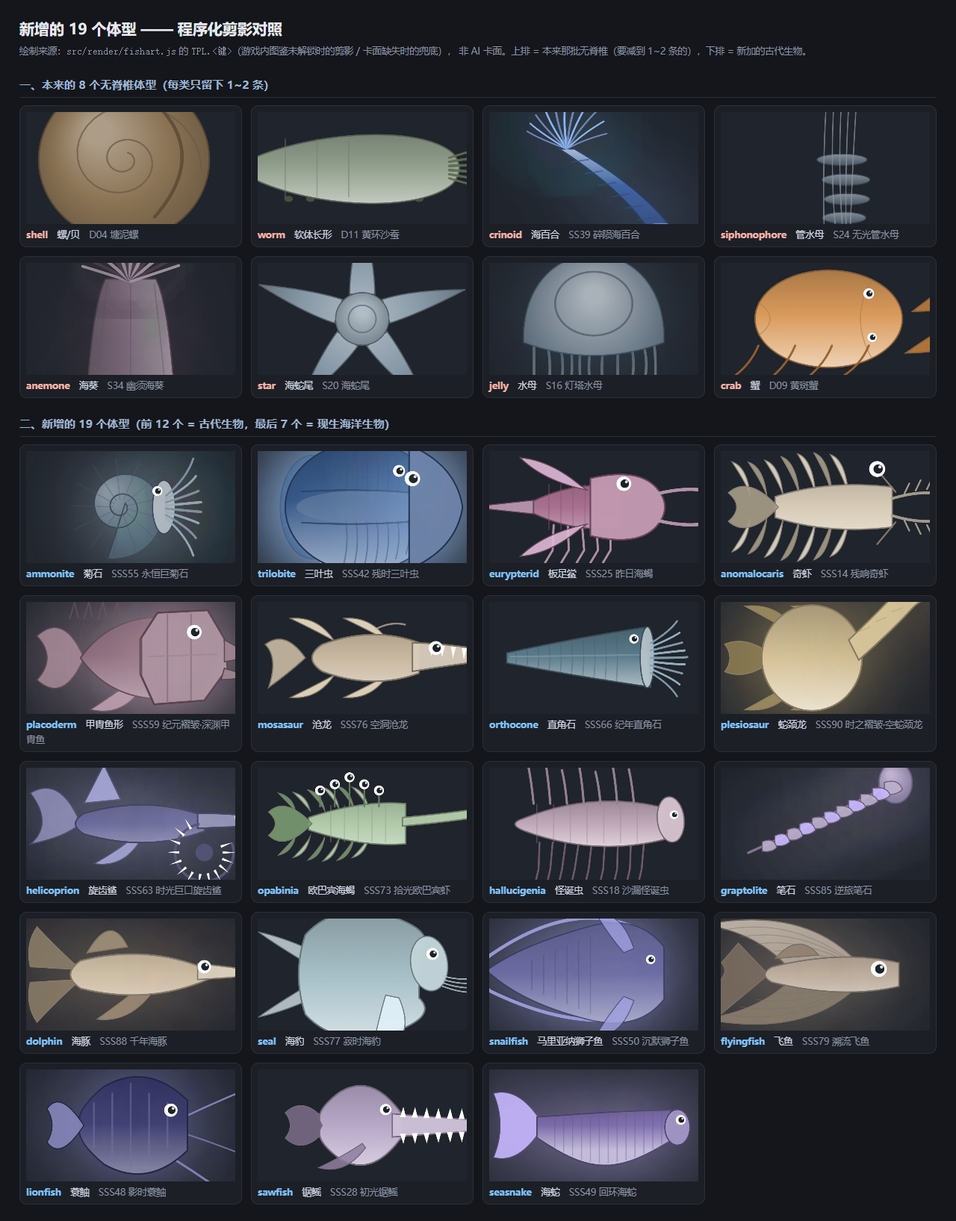
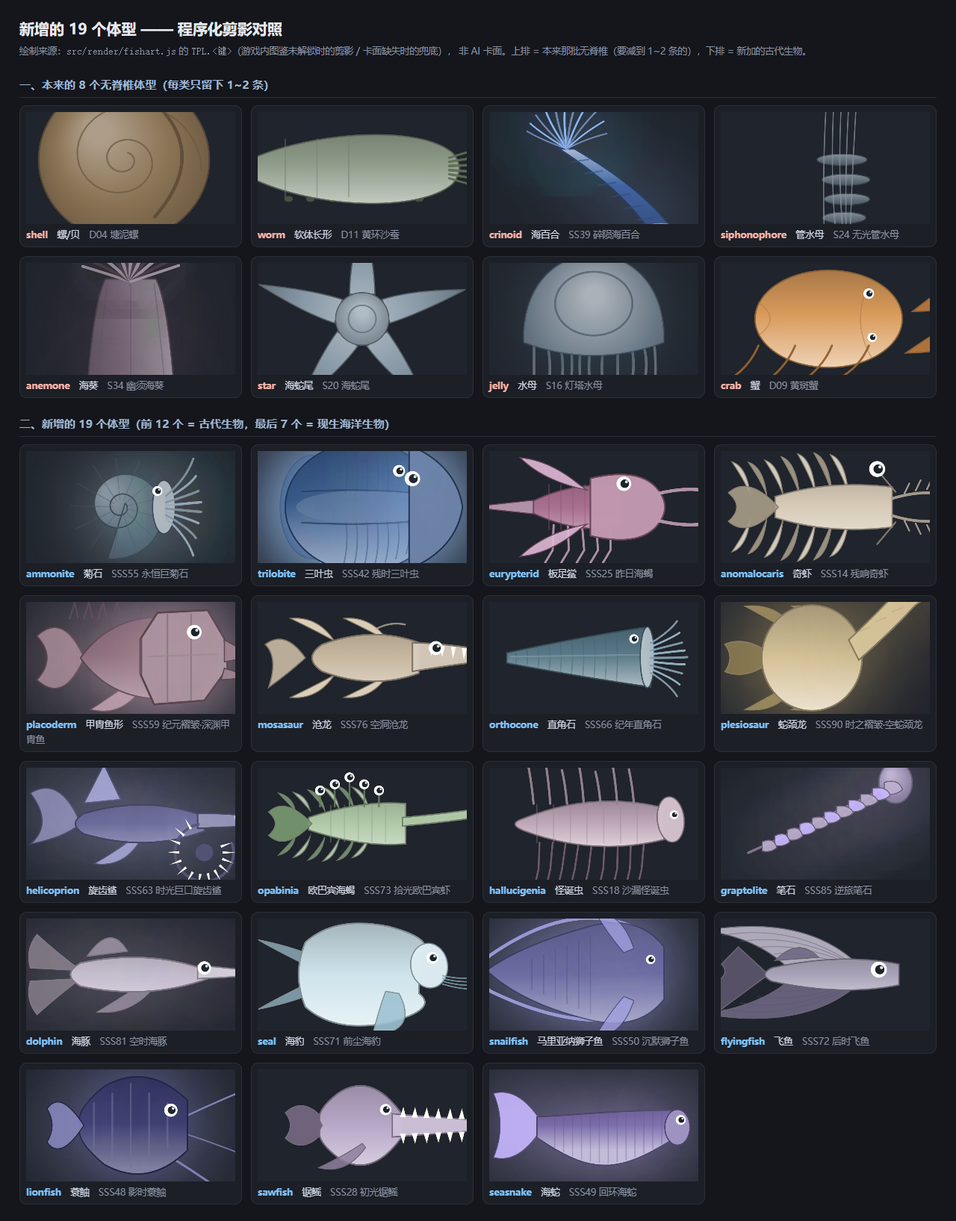
压条数（奇虾 / 甲胄鱼形 4→2）+ 4 个现生海兽体型各补 1 条
用户口径（承接上一条提交的追问）：「可以压」—— 同意把上一条里我点名询问、
没有擅自扩大解释的那两个体型也压到 2 条。

【压条数】
· anomalocaris 奇虾 4 → 2（保留 SSS14 残响奇虾 / SSS75 流年奇虾）
· placoderm 甲胄鱼形 4 → 2（保留 SSS59 纪元褶皱·深渊甲胄鱼 / SSS89 逆流甲胄鱼）
于是 12 个新增体型里现在有 5 个是「2 条」（菊石/三叶虫/板足鲎/奇虾/甲胄鱼形），
其余保持 1~2 条 —— 全表 56 种体型一个都不超 20 条。

【腾出的 4 条物种 → 用户点名的那 4 个新体型各补 1 条】
· SSS71 前尘奇虾 → 前尘海豹（seal）
· SSS72 后时奇虾 → 后时飞鱼（flyingfish）
· SSS69 空页甲胄鱼 → 空页狮子鱼（snailfish）
· SSS81 空时甲胄鱼 → 空时海豚（dolphin）
理由：这 4 个体型是用户上一轮亲自点名要的（海豚 / 海豹 / 马里亚纳狮子鱼 / 飞鱼），
先让它们从「单条」变成「2 条」；剩下的 7 个单条体型（旋齿鲨 / 欧巴宾海蝎 / 怪诞虫 /
笔石 / 蓑鲉 / 锯鳐 / 海蛇）名额不够，等下一次压条数或加物种时再补。

【连带改到】
· tools/gen-art.py 的 DEEP_LINES 这 4 条按新物种重写（海豹/飞鱼/深渊凝胶鱼/海豚各两句）；
· tools/style-preview.html 的 placoderm 代表鱼 SSS69 → SSS89 —— SSS69 这一轮变成了狮子鱼，
  菊石那一轮同款的坑：代表鱼被改走 ⇒ 该体型「全形态总览」当场漏一型（verify 报红）。
  上一条提交后我加了「体型指纹两两不同」的断言，但**代表鱼指向别处**这种失效它抓不到，
  仍然只有 verify §33② 能抓 —— 记在这里，别下次又忘。

【门禁（实跑）】node tools/test.js 1341 项全过 · node tools/verify.js 0 错 0 警 ·
node tools/build.js --check 通过 · 节奏表目标未动（balance.js 仍 828 小时）·
fix-rarity-price.js 复跑「0 条」· 真浏览器重截 docs/images/新增古代生物体型-剪影.png（27 个体型）。

⚠ 仍然**未提交** assets/cards/manifest.json（工作区里既有的在制品）。
⚠ 待重出 242 张（物种已换 239 / 无台账 3）；生图由用户自行执行。

Changed region(s): [[0.2812, 0.7486, 0.5, 0.8734], [0.75, 0.7486, 0.9375, 0.8422], [0.0312, 0.7486, 0.25, 0.8734]]

diff --git a/src/data/fish.js b/src/data/fish.js
@@ -374,10 +374,10 @@ window.G = window.G || {};
   F('SSS66', '纪年直角石', 0, 'orthocone', '#5a7a8a', '#98b8c8', 18000000.0, 110000000.0, 273, { w:72, body:0.32, tail:"fork" });
   F('SSS67', '溯时鲻', 0, 'reef', '#8a7a6a', '#c0b0a0', 40000000.0, 240000000.0, 276, { w:71, body:0.32 });
   F('SSS68', '残页鲷', 0, 'reef', '#6a8a8a', '#a8c8c8', 90000000.0, 520000000.0, 306, { w:70, body:0.46, spiny:true, stripes:true });
-  F('SSS69', '空页甲胄鱼', 0, 'placoderm', '#b8a882', '#e8dcb0', 130000000.0, 700000000.0, 311, { w:70, body:0.36, spiny:true });
+  F('SSS69', '空页狮子鱼', 0, 'snailfish', '#b8a882', '#e8dcb0', 130000000.0, 700000000.0, 311, { w:70, body:0.36, spiny:true });
   F('SSS70', '遗忘直角石', 0, 'orthocone', '#c98f8f', '#8f5555', 65000000.0, 380000000.0, 297, { w:69, body:0.60 });
-  F('SSS71', '前尘奇虾', 0, 'anomalocaris', '#cfe4ec', '#9dc2d2', 3000000.0, 17000000.0, 227, { w:68, body:0.26 });
-  F('SSS72', '后时奇虾', 0, 'anomalocaris', '#a8a2b8', '#6f6885', 9000000.0, 60000000.0, 259, { w:68, body:0.30, spots:true });
+  F('SSS71', '前尘海豹', 0, 'seal', '#cfe4ec', '#9dc2d2', 3000000.0, 17000000.0, 227, { w:68, body:0.26 });
+  F('SSS72', '后时飞鱼', 0, 'flyingfish', '#a8a2b8', '#6f6885', 9000000.0, 60000000.0, 259, { w:68, body:0.30, spots:true });
   F('SSS73', '拾光欧巴宾虾', 0, 'opabinia', '#b0c9a8', '#7a9a72', 28000000.0, 180000000.0, 281, { w:67, body:0.30 });
   F('SSS74', '逆旅鲽', 0, 'flatfish', '#cdc3d6', '#948aa8', 32000000.0, 210000000.0, 290, { w:66, body:0.56, spots:true });
   F('SSS75', '流年奇虾', 0, 'anomalocaris', '#d6cdb8', '#f5eeda', 38000000.0, 230000000.0, 278, { w:66, body:0.32 });
@@ -386,7 +386,7 @@ window.G = window.G || {};
   F('SSS78', '时间鲟', 1, 'sturgeon', '#d0c8b0', '#a89f80', 280000000000.0, 1500000000000.0, 1526, { w:58, body:0.38, spiny:true, glow:true });
   F('SSS79', '溯流飞鱼', 1, 'flyingfish', '#c0b0a0', '#908070', 300000000000.0, 1500000000000.0, 1574, { w:56, glow:true });
   F('SSS80', '逆熵鳐', 1, 'ray', '#b8c0a8', '#8f9880', 180000000000.0, 950000000000.0, 1616, { w:55, glow:true });
-  F('SSS81', '空时甲胄鱼', 1, 'placoderm', '#c8c0d0', '#98909f', 450000000000.0, 2400000000000.0, 1688, { w:53, body:0.28, glow:true, wx:'rain' });
+  F('SSS81', '空时海豚', 1, 'dolphin', '#c8c0d0', '#98909f', 450000000000.0, 2400000000000.0, 1688, { w:53, body:0.28, glow:true, wx:'rain' });
   F('SSS82', '千年魟', 1, 'ray', '#d8ccb8', '#a89c88', 250000000000.0, 1300000000000.0, 1588, { w:52, glow:true });
   F('SSS83', '时纱水母', 1, 'jelly', '#b0b8c0', '#808890', 60000000000.0, 340000000000.0, 1556, { w:50, glow:true });
   F('SSS84', '虚年章鱼', 1, 'squid', '#c4c0b0', '#94907f', 120000000000.0, 640000000000.0, 1639, { w:49, glow:true });

diff --git a/docs/收集耗时表.html b/docs/收集耗时表.html
@@ -3694,9 +3694,9 @@
           <td class="num">3.4 天</td>
         </tr><tr>
           <td class="num" style="color:var(--ink3)">69</td>
-          <td><b>空页甲胄鱼</b></td>
+          <td><b>空页狮子鱼</b></td>
           <td><span class="tag" style="background:#8b98a5">普通</span></td>
-          <td style="color:var(--ink3)">placoderm</td>
+          <td style="color:var(--ink3)">snailfish</td>
           <td class="num">1.353%</td>
           <td class="num">73.9</td>
           <td class="num"><b>2.4 小时</b></td>
@@ -3714,9 +3714,9 @@
           <td class="num">3.4 天</td>
         </tr><tr>
           <td class="num" style="color:var(--ink3)">71</td>
-          <td><b>前尘奇虾</b></td>
+          <td><b>前尘海豹</b></td>
           <td><span class="tag" style="background:#8b98a5">普通</span></td>
-          <td style="color:var(--ink3)">anomalocaris</td>
+          <td style="color:var(--ink3)">seal</td>
           <td class="num">1.314%</td>
           <td class="num">76.1</td>
           <td class="num"><b>2.5 小时</b></td>
@@ -3724,9 +3724,9 @@
           <td class="num">3.5 天</td>
         </tr><tr>
           <td class="num" style="color:var(--ink3)">72</td>
-          <td><b>后时奇虾</b></td>
+          <td><b>后时飞鱼</b></td>
           <td><span class="tag" style="background:#8b98a5">普通</span></td>
-          <td style="color:var(--ink3)">anomalocaris</td>
+          <td style="color:var(--ink3)">flyingfish</td>
           <td class="num">1.314%</td>
           <td class="num">76.1</td>
           <td class="num"><b>2.5 小时</b></td>
@@ -3814,9 +3814,9 @@
           <td class="num">3.1 天</td>
         </tr><tr>
           <td class="num" style="color:var(--ink3)">81</td>
-          <td><b>空时甲胄鱼</b></td>
+          <td><b>空时海豚</b></td>
           <td><span class="tag" style="background:#2b8fe0">稀有</span></td>
-          <td style="color:var(--ink3)">placoderm</td>
+          <td style="color:var(--ink3)">dolphin</td>
           <td class="num">0.713%</td>
           <td class="num">140</td>
           <td class="num"><b>4.6 小时</b></td>

diff --git a/tools/style-preview.html b/tools/style-preview.html
@@ -109,7 +109,7 @@
                 /* ── 2026-10-13 新增的 6 个「古代生物」体型 ── */
                 'SSS55', /* ammonite     永恒巨菊石 */ 'SSS42', /* trilobite    残时三叶虫 */
                 'SSS25', /* eurypterid   昨日海蝎 */   'SSS14', /* anomalocaris 残响奇虾 */
-                'SSS69', /* placoderm    空页甲胄鱼 */ 'SSS76', /* mosasaur     空洞沧龙 */
+                'SSS89', /* placoderm    逆流甲胄鱼 */ 'SSS76', /* mosasaur     空洞沧龙 */
                 /* ── 2026-10-13 第二批 6 个「古代生物」体型 ── */
                 'SSS66', /* orthocone    纪年直角石 */  'SSS94', /* plesiosaur   终焉纪元·忘川蛇颈龙 */
                 'SSS63', /* helicoprion  时光巨口旋齿鲨 */ 'SSS73', /* opabinia    拾光欧巴宾虾 */

diff --git a/tools/gen-art.py b/tools/gen-art.py
@@ -1396,10 +1396,10 @@ DEEP_LINES = {
     'SSS66': 'A year-reckoning straight-shell, one long unbroken cone. Even bands are cut across it chamber by chamber, from the open end back to the tip.',
     'SSS67': 'A time-tracing mullet following the years upstream. Pale back-running lines are cut into its sides.',
     'SSS68': 'A torn-page bream with its history half rubbed away. Its flat flanks are worn smooth in large pale patches.',
-    'SSS69': 'A blank-page armoured beast with everything erased from it. Its whole head-shield is rubbed down to bare pale stone, every seam worn level.',
+    'SSS69': 'A blank-page deep-gel fish with everything erased from it. Its broad head is rubbed down to bare pale stone and the body tapers away into a thin ribbon.',
     'SSS70': 'A forgotten straight-shell, worn where nobody has looked at it. Patches of pale worn stone lie along its long cone in uneven shapes.',
-    'SSS71': 'A dust-of-the-past hunter. Fine pale grit lies over its flank flaps in long drifts, thickest along the upper edge of each flap.',
-    'SSS72': 'A late-hour hunter. Its head is worn pale at the front and darkens steadily toward the far end of its body.',
+    'SSS71': 'A dust-of-the-past seal. Fine pale grit lies over its hide in long drifts, thickest along the ridge of its back.',
+    'SSS72': 'A late-hour flying-fish. Its head is worn pale at the front, and its two great side fins darken steadily toward their tips.',
     'SSS73': 'A light-gathering five-eyed creature hoarding what others left behind. Five short stalks stand in a row on its head, each tipped with a pale eye.',
     'SSS74': 'A reverse-journey flounder travelling back the way it came. Pale lines run backwards across its flat body in even rows.',
     'SSS75': 'A flowing-year hunter. Pale bands flow along its long flank flaps one after another, from the head back to the tail fan.',
@@ -1408,7 +1408,7 @@ DEEP_LINES = {
     'SSS78': 'A time-sturgeon. Long deep bands run the length of its plated body.',
     'SSS79': 'A back-current flying-fish, the oldest racer of returning water. Two enormous wing-like fins spread from its shoulders and its tail carries one long lower blade.',
     'SSS80': 'A reverse-entropy ray whose own order is running down. Pale lines reverse outward across its wings and fade at the tips.',
-    'SSS81': 'A hollow-hour armoured beast. Its shield is colourless grey, the plates worn down to soft bevels along every edge.',
+    'SSS81': 'A hollow-hour dolphin. Its whole body is colourless grey, the beak and the flukes worn down to soft pale edges.',
     'SSS82': 'A thousand-year ray whose disk is a record of ages. Deep age-bands are cut across the whole disk, one inside the next.',
     'SSS83': 'A time-gauze jelly, a thin drifting veil. Fine pale grain is suspended in its dome like cloth.',
     'SSS84': 'An empty-year octopus. Its mantle fades at the edges and its arms thin away into grey.',

diff --git a/tools/gen-fish.py b/tools/gen-fish.py
@@ -550,10 +550,10 @@ FIELD_FISH['SSS'] = [
  ('纪年直角石',0,'orthocone',1.8e+07,1.1e+08,307,'body:0.32, tail:"fork"'),
  ('溯时鲻',0,'reef',4e+07,2.4e+08,309,'body:0.32'),
  ('残页鲷',0,'reef',9e+07,5.2e+08,343,'body:0.46, spiny:true, stripes:true'),
- ('空页甲胄鱼',0,'placoderm',1.3e+08,7e+08,348,'body:0.36, spiny:true'),
+ ('空页狮子鱼',0,'snailfish',1.3e+08,7e+08,348,'body:0.36, spiny:true'),
  ('遗忘直角石',0,'orthocone',6.5e+07,3.8e+08,333,'body:0.60'),
- ('前尘奇虾',0,'anomalocaris',3e+06,1.7e+07,255,'body:0.26'),
- ('后时奇虾',0,'anomalocaris',9e+06,6e+07,291,'body:0.30, spots:true'),
+ ('前尘海豹',0,'seal',3e+06,1.7e+07,255,'body:0.26'),
+ ('后时飞鱼',0,'flyingfish',9e+06,6e+07,291,'body:0.30, spots:true'),
  ('拾光欧巴宾虾',0,'opabinia',2.8e+07,1.8e+08,315,'body:0.30'),
  ('逆旅鲽',0,'flatfish',3.2e+07,2.1e+08,325,'body:0.56, spots:true'),
  ('流年奇虾',0,'anomalocaris',3.8e+07,2.3e+08,312,'body:0.32'),
@@ -562,7 +562,7 @@ FIELD_FISH['SSS'] = [
  ('时间鲟',1,'sturgeon',2.8e+11,1.5e+12,722,'body:0.38, spiny:true, glow:true'),
  ('溯流飞鱼',1,'flyingfish',3e+11,1.5e+12,744,'glow:true'),
  ('逆熵鳐',1,'ray',1.8e+11,9.5e+11,764,'glow:true'),
- ('空时甲胄鱼',1,'placoderm',4.5e+11,2.4e+12,798,'body:0.28, glow:true'),
+ ('空时海豚',1,'dolphin',4.5e+11,2.4e+12,798,'body:0.28, glow:true'),
  ('千年魟',1,'ray',2.5e+11,1.3e+12,751,'glow:true'),
  ('时纱水母',1,'jelly',6e+10,3.4e+11,736,'glow:true'),
  ('虚年章鱼',1,'squid',1.2e+11,6.4e+11,775,'glow:true'),

diff --git a/docs/鱼提示词表.md b/docs/鱼提示词表.md
@@ -389,10 +389,10 @@ BG    = Plain dark neutral grey background, completely empty, no scenery, no tex
 | SSS66 | 纪年直角石 | 普通 | orthocone | low poly 3D fantasy creature named 纪年直角石, an elder being from a forgotten age, unmistakably not an ordinary fish, an ancient straight-shelled creature of the first seas. A year-reckoning straight-shell, one long unbroken cone. Even bands are cut across it chamber by chamber, from the open end back to the tip. Faceted low-poly stylisation, simple unadorned form, flat shading, full side view, whole body visible, facing left, centered with generous margin, empty dark background. primeval colouring, muted sky blue body with lighter fins, a clearly lighter belly and a darker back. |
 | SSS67 | 溯时鲻 | 普通 | reef | low poly 3D fantasy creature named 溯时鲻, an elder being from a forgotten age, unmistakably not an ordinary fish, a stout big-headed dweller of the rocks. A time-tracing mullet following the years upstream. Pale back-running lines are cut into its sides. Faceted low-poly stylisation, simple unadorned form, flat shading, full side view, whole body visible, facing left, centered with generous margin, empty dark background. primeval colouring, muted orange body with lighter fins, a clearly lighter belly and a darker back. |
 | SSS68 | 残页鲷 | 普通 | reef | low poly 3D fantasy creature named 残页鲷, an elder being from a forgotten age, unmistakably not an ordinary fish, a stout big-headed dweller of the rocks. A torn-page bream with its history half rubbed away. Its flat flanks are worn smooth in large pale patches. Faceted low-poly stylisation, simple unadorned form, flat shading, full side view, whole body visible, facing left, centered with generous margin, empty dark background. primeval colouring, muted teal body with lighter fins, a clearly lighter belly and a darker back. |
-| SSS69 | 空页甲胄鱼 | 普通 | placoderm | low poly 3D fantasy creature named 空页甲胄鱼, an elder being from a forgotten age, unmistakably not an ordinary fish, an ancient plate-armoured jawed beast of the first seas. A blank-page armoured beast with everything erased from it. Its whole head-shield is rubbed down to bare pale stone, every seam worn level. Faceted low-poly stylisation, simple unadorned form, flat shading, full side view, whole body visible, facing left, centered with generous margin, empty dark background. primeval colouring, muted golden yellow body with lighter fins, a clearly lighter belly and a darker back. |
+| SSS69 | 空页狮子鱼 | 普通 | snailfish | low poly 3D fantasy creature named 空页狮子鱼, an elder being from a forgotten age, unmistakably not an ordinary fish, a gel-bodied deep creature tapering into a ribbon. A blank-page deep-gel fish with everything erased from it. Its broad head is rubbed down to bare pale stone and the body tapers away into a thin ribbon. Faceted low-poly stylisation, simple unadorned form, flat shading, full side view, whole body visible, facing left, centered with generous margin, empty dark background. primeval colouring, muted golden yellow body with lighter fins, a clearly lighter belly and a darker back. |
 | SSS70 | 遗忘直角石 | 普通 | orthocone | low poly 3D fantasy creature named 遗忘直角石, an elder being from a forgotten age, unmistakably not an ordinary fish, an ancient straight-shelled creature of the first seas. A forgotten straight-shell, worn where nobody has looked at it. Patches of pale worn stone lie along its long cone in uneven shapes. Faceted low-poly stylisation, simple unadorned form, flat shading, full side view, whole body visible, facing left, centered with generous margin, empty dark background. primeval colouring, red body with darker fins, a clearly lighter belly and a darker back. |
-| SSS71 | 前尘奇虾 | 普通 | anomalocaris | low poly 3D fantasy creature named 前尘奇虾, an elder being from a forgotten age, unmistakably not an ordinary fish, an ancient flippered hunter of the first seas. A dust-of-the-past hunter. Fine pale grit lies over its flank flaps in long drifts, thickest along the upper edge of each flap. Faceted low-poly stylisation, simple unadorned form, flat shading, full side view, whole body visible, facing left, centered with generous margin, empty dark background. primeval colouring, pale sky blue body with darker fins, a clearly lighter belly and a darker back. |
-| SSS72 | 后时奇虾 | 普通 | anomalocaris | low poly 3D fantasy creature named 后时奇虾, an elder being from a forgotten age, unmistakably not an ordinary fish, an ancient flippered hunter of the first seas. A late-hour hunter. Its head is worn pale at the front and darkens steadily toward the far end of its body. Faceted low-poly stylisation, simple unadorned form, flat shading, full side view, whole body visible, facing left, centered with generous margin, empty dark background. primeval colouring, muted violet body with darker fins, a clearly lighter belly and a darker back. |
+| SSS71 | 前尘海豹 | 普通 | seal | low poly 3D fantasy creature named 前尘海豹, an elder being from a forgotten age, unmistakably not an ordinary fish, a heavy flippered beast with its hind limbs trailing behind. A dust-of-the-past seal. Fine pale grit lies over its hide in long drifts, thickest along the ridge of its back. Faceted low-poly stylisation, simple unadorned form, flat shading, full side view, whole body visible, facing left, centered with generous margin, empty dark background. primeval colouring, pale sky blue body with darker fins, a clearly lighter belly and a darker back. |
+| SSS72 | 后时飞鱼 | 普通 | flyingfish | low poly 3D fantasy creature named 后时飞鱼, an elder being from a forgotten age, unmistakably not an ordinary fish, a winged leaper with immense side fins. A late-hour flying-fish. Its head is worn pale at the front, and its two great side fins darken steadily toward their tips. Faceted low-poly stylisation, simple unadorned form, flat shading, full side view, whole body visible, facing left, centered with generous margin, empty dark background. primeval colouring, muted violet body with darker fins, a clearly lighter belly and a darker back. |
 | SSS73 | 拾光欧巴宾虾 | 普通 | opabinia | low poly 3D fantasy creature named 拾光欧巴宾虾, an elder being from a forgotten age, unmistakably not an ordinary fish, an ancient five-eyed creature of the first seas. A light-gathering five-eyed creature hoarding what others left behind. Five short stalks stand in a row on its head, each tipped with a pale eye. Faceted low-poly stylisation, simple unadorned form, flat shading, full side view, whole body visible, facing left, centered with generous margin, empty dark background. primeval colouring, muted pale green body with darker fins, a clearly lighter belly and a darker back. |
 | SSS74 | 逆旅鲽 | 普通 | flatfish | low poly 3D fantasy creature named 逆旅鲽, an elder being from a forgotten age, unmistakably not an ordinary fish, a flat one-sided creature that lies on the seabed. A reverse-journey flounder travelling back the way it came. Pale lines run backwards across its flat body in even rows. Faceted low-poly stylisation, simple unadorned form, flat shading, full side view, whole body visible, facing left, centered with generous margin, empty dark background. primeval colouring, muted pale violet body with darker fin fringe, a clearly lighter lower side and a darker upper side. |
 | SSS75 | 流年奇虾 | 普通 | anomalocaris | low poly 3D fantasy creature named 流年奇虾, an elder being from a forgotten age, unmistakably not an ordinary fish, an ancient flippered hunter of the first seas. A flowing-year hunter. Pale bands flow along its long flank flaps one after another, from the head back to the tail fan. Faceted low-poly stylisation, simple unadorned form, flat shading, full side view, whole body visible, facing left, centered with generous margin, empty dark background. primeval colouring, muted pale golden yellow body with lighter fins, a clearly lighter belly and a darker back. |
@@ -401,7 +401,7 @@ BG    = Plain dark neutral grey background, completely empty, no scenery, no tex
 | SSS78 | 时间鲟 | 稀有 | sturgeon | low poly 3D fantasy creature named 时间鲟, an elder being from a forgotten age, unmistakably not an ordinary fish, an armoured plated creature with a long snout and barbels. A time-sturgeon. Long deep bands run the length of its plated body. Faceted low-poly stylisation, slightly longer fins, flat shading, full side view, whole body visible, facing left, centered with generous margin, empty dark background. primeval colouring, muted pale golden yellow body with darker fins, a clearly lighter belly and a darker back. |
 | SSS79 | 溯流飞鱼 | 稀有 | flyingfish | low poly 3D fantasy creature named 溯流飞鱼, an elder being from a forgotten age, unmistakably not an ordinary fish, a winged leaper with immense side fins. A back-current flying-fish, the oldest racer of returning water. Two enormous wing-like fins spread from its shoulders and its tail carries one long lower blade. Faceted low-poly stylisation, slightly longer fins, flat shading, full side view, whole body visible, facing left, centered with generous margin, empty dark background. primeval colouring, muted orange body with darker fins, a clearly lighter belly and a darker back. |
 | SSS80 | 逆熵鳐 | 稀有 | ray | low poly 3D fantasy creature named 逆熵鳐, an elder being from a forgotten age, unmistakably not an ordinary fish, a broad winged ray-like being. A reverse-entropy ray whose own order is running down. Pale lines reverse outward across its wings and fade at the tips. Faceted low-poly stylisation, slightly longer wings, flat shading, full side view, whole body visible, facing left, centered with generous margin, empty dark background. primeval colouring, muted yellow green body with light grey wings, a clearly lighter belly and a darker back. |
-| SSS81 | 空时甲胄鱼 | 稀有 | placoderm | low poly 3D fantasy creature named 空时甲胄鱼, an elder being from a forgotten age, unmistakably not an ordinary fish, an ancient plate-armoured jawed beast of the first seas. A hollow-hour armoured beast. Its shield is colourless grey, the plates worn down to soft bevels along every edge. Faceted low-poly stylisation, slightly longer fins, flat shading, full side view, whole body visible, facing left, centered with generous margin, empty dark background. primeval colouring, muted pale violet body with light grey fins, a clearly lighter belly and a darker back. |
+| SSS81 | 空时海豚 | 稀有 | dolphin | low poly 3D fantasy creature named 空时海豚, an elder being from a forgotten age, unmistakably not an ordinary fish, a sleek beaked swimmer with a horizontal tail fluke. A hollow-hour dolphin. Its whole body is colourless grey, the beak and the flukes worn down to soft pale edges. Faceted low-poly stylisation, slightly longer flippers, flat shading, full side view, whole body visible, facing left, centered with generous margin, empty dark background. primeval colouring, muted pale violet body with light grey fins, a clearly lighter belly and a darker back. |
 | SSS82 | 千年魟 | 稀有 | ray | low poly 3D fantasy creature named 千年魟, an elder being from a forgotten age, unmistakably not an ordinary fish, a broad winged ray-like being. A thousand-year ray whose disk is a record of ages. Deep age-bands are cut across the whole disk, one inside the next. Faceted low-poly stylisation, slightly longer wings, flat shading, full side view, whole body visible, facing left, centered with generous margin, empty dark background. primeval colouring, muted pale orange body with darker wings, a clearly lighter belly and a darker back. |
 | SSS83 | 时纱水母 | 稀有 | jelly | low poly 3D fantasy creature named 时纱水母, an elder being from a forgotten age, unmistakably not an ordinary fish, a drifting jelly-mass. A time-gauze jelly, a thin drifting veil. Fine pale grain is suspended in its dome like cloth. Faceted low-poly stylisation, slightly longer tentacles, flat shading, full frontal view, whole body visible, radially symmetric, centered with generous margin, empty dark background. primeval colouring, light grey body with darker tentacles, a clearly lighter lower bell margin and a darker bell top. |
 | SSS84 | 虚年章鱼 | 稀有 | squid | low poly 3D fantasy creature named 虚年章鱼, an elder being from a forgotten age, unmistakably not an ordinary fish, a many-armed creature of the deep. An empty-year octopus. Its mantle fades at the edges and its arms thin away into grey. Faceted low-poly stylisation, slightly longer arms, flat shading, full side view, whole body visible, facing left, centered with generous margin, empty dark background. primeval colouring, muted pale golden yellow body with light grey arms, a clearly lighter belly and a darker back. |
@@ -762,10 +762,10 @@ BG    = Plain dark neutral grey background, completely empty, no scenery, no tex
 | SSS66 | 纪年直角石 | `shiny/5` 极光薄膜 | `albino/1` 奶白（基准） | `golden/5` 熔金 | `shiny/7` 本色+金属亮片 |
 | SSS67 | 溯时鲻 | `bright/1` 全光谱纵渐变 | `albino/3` 暖调象牙 | `golden/5` 熔金 | `shiny/1` 星点（基准） |
 | SSS68 | 残页鲷 | `bright/3` 虹彩油膜 | `albino/1` 奶白（基准） | `golden/1` 亮金（基准） | `shiny/1` 星点（基准） |
-| SSS69 | 空页甲胄鱼 | `shiny/3` 全息镭射膜 | `albino/1` 奶白（基准） | `golden/3` 古铜暗金 | `shiny/1` 星点（基准） |
+| SSS69 | 空页狮子鱼 | `shiny/3` 全息镭射膜 | `albino/1` 奶白（基准） | `golden/3` 古铜暗金 | `shiny/1` 星点（基准） |
 | SSS70 | 遗忘直角石 | `bright/2` 横向彩虹色带 | `albino/4` 珍珠白+粉鳍缘 | `golden/3` 古铜暗金 | `shiny/1` 星点（基准） |
-| SSS71 | 前尘奇虾 | `bright/3` 虹彩油膜 | `albino/3` 暖调象牙 | `golden/1` 亮金（基准） | `shiny/1` 星点（基准） |
-| SSS72 | 后时奇虾 | `bright/1` 全光谱纵渐变 | `albino/4` 珍珠白+粉鳍缘 | `golden/2` 24K 镜面 | `shiny/1` 星点（基准） |
+| SSS71 | 前尘海豹 | `bright/3` 虹彩油膜 | `albino/3` 暖调象牙 | `golden/1` 亮金（基准） | `shiny/1` 星点（基准） |
+| SSS72 | 后时飞鱼 | `bright/1` 全光谱纵渐变 | `albino/4` 珍珠白+粉鳍缘 | `golden/2` 24K 镜面 | `shiny/1` 星点（基准） |
 | SSS73 | 拾光欧巴宾虾 | `bright/3` 虹彩油膜 | `albino/3` 暖调象牙 | `golden/1` 亮金（基准） | `shiny/1` 星点（基准） |
 | SSS74 | 逆旅鲽 | `bright/2` 横向彩虹色带 | `albino/4` 珍珠白+粉鳍缘 | `golden/1` 亮金（基准） | `shiny/1` 星点（基准） |
 | SSS75 | 流年奇虾 | `shiny/5` 极光薄膜 | `albino/3` 暖调象牙 | `golden/1` 亮金（基准） | `shiny/7` 本色+金属亮片 |
@@ -774,7 +774,7 @@ BG    = Plain dark neutral grey background, completely empty, no scenery, no tex
 | SSS78 | 时间鲟 | `bright/2` 横向彩虹色带 | `albino/2` 冷调冰白 | `golden/1` 亮金（基准） | `shiny/1` 星点（基准） |
 | SSS79 | 溯流飞鱼 | `bright/1` 全光谱纵渐变 | `albino/1` 奶白（基准） | `golden/2` 24K 镜面 | `shiny/7` 本色+金属亮片 |
 | SSS80 | 逆熵鳐 | `shiny/3` 全息镭射膜 | `albino/4` 珍珠白+粉鳍缘 | `golden/2` 24K 镜面 | `shiny/1` 星点（基准） |
-| SSS81 | 空时甲胄鱼 | `shiny/5` 极光薄膜 | `albino/4` 珍珠白+粉鳍缘 | `golden/5` 熔金 | `shiny/7` 本色+金属亮片 |
+| SSS81 | 空时海豚 | `shiny/5` 极光薄膜 | `albino/4` 珍珠白+粉鳍缘 | `golden/5` 熔金 | `shiny/7` 本色+金属亮片 |
 | SSS82 | 千年魟 | `bright/1` 全光谱纵渐变 | `albino/4` 珍珠白+粉鳍缘 | `golden/1` 亮金（基准） | `shiny/1` 星点（基准） |
 | SSS83 | 时纱水母 | `bright/1` 全光谱纵渐变 | `albino/3` 暖调象牙 | `golden/1` 亮金（基准） | `shiny/1` 星点（基准） |
 | SSS84 | 虚年章鱼 | `shiny/3` 全息镭射膜 | `albino/3` 暖调象牙 | `golden/2` 24K 镜面 | `shiny/1` 星点（基准） |

diff --git a/docs/鱼形态档案.md b/docs/鱼形态档案.md
@@ -340,10 +340,10 @@
 | SSS66 | 纪年直角石 | 普通 | orthocone | a huge massive creature, a streamlined spindle body with a keeled belly, a small head, a mouth at the front of the head, a long low dorsal fin, a deeply forked tail fin, a row of finlets behind the fins |
 | SSS67 | 溯时鲻 | 普通 | reef | a huge massive fish, an elongated rounded body, a broad flattened head, a small mouth at the front of the head, two separate dorsal fins, a forked tail fin, long pectoral fins |
 | SSS68 | 残页鲷 | 普通 | reef | a huge massive fish, a deep oval body with a steep forehead, a small mouth, a large eye, a long dorsal fin with a spiny front, a rounded tail fin, long pectoral fins |
-| SSS69 | 空页甲胄鱼 | 普通 | placoderm | a huge massive creature, a moderately elongated body with a slightly concave forehead, a large mouth, a short snout, a dorsal fin with a deep notch, a slightly forked tail fin, small pectoral fins |
+| SSS69 | 空页狮子鱼 | 普通 | snailfish | a huge massive creature, a moderately elongated body with a slightly concave forehead, a large mouth, a short snout, a dorsal fin with a deep notch, a slightly forked tail fin, small pectoral fins |
 | SSS70 | 遗忘直角石 | 普通 | orthocone | a huge massive creature, a deep oval body with a keeled belly, a small blunt head, a small mouth, a long low dorsal fin, a matching anal fin, a deeply forked tail fin |
-| SSS71 | 前尘奇虾 | 普通 | anomalocaris | a huge massive creature, a small elongated body with a flattened top, a broad rounded head, an upturned mouth, a long dorsal fin, a rounded tail fin, short pectoral fins |
-| SSS72 | 后时奇虾 | 普通 | anomalocaris | a huge massive creature, a small stout body, a large blunt head, a wide mouth, fused pelvic fins forming a disc, two dorsal fins, a rounded tail fin, fused pelvic fins forming a sucking disc |
+| SSS71 | 前尘海豹 | 普通 | seal | a huge massive creature, a small elongated body with a flattened top, a broad rounded head, an upturned mouth, a long dorsal fin, a rounded tail fin, short pectoral fins |
+| SSS72 | 后时飞鱼 | 普通 | flyingfish | a huge massive creature, a small stout body, a large blunt head, a wide mouth, fused pelvic fins forming a disc, two dorsal fins, a rounded tail fin, fused pelvic fins forming a sucking disc |
 | SSS73 | 拾光欧巴宾虾 | 普通 | opabinia | a huge massive creature, a streamlined spindle body with a keeled belly, a small pointed head, a terminal mouth, a long low dorsal fin, a deeply forked tail fin, a row of finlets behind the dorsal and anal fins |
 | SSS74 | 逆旅鲽 | 普通 | flatfish | a huge massive fish, a flattened oval body, both eyes on one side, a small twisted mouth, a thin wavy fin margin, a long dorsal fin along the upper edge, an anal fin along the lower edge, a rounded tail fin |
 | SSS75 | 流年奇虾 | 普通 | anomalocaris | a huge massive creature, an elongated rounded body, a broad flat head, a small mouth at the front of the head, two separate dorsal fins, a forked tail fin, long pectoral fins |
@@ -352,7 +352,7 @@
 | SSS78 | 时间鲟 | 稀有 | sturgeon | a huge massive fish, an elongated body with five rows of bony scutes along the back and flanks, a long flattened snout, a small inferior mouth, four barbels before the mouth, a dorsal fin set far back, a tail fin with a long upper lobe, small pectoral fins |
 | SSS79 | 溯流飞鱼 | 稀有 | flyingfish | a huge massive creature, a narrow ribbon-like body, a small upturned head, a fan crest on the nape, a chain of eroded ring segments, a continuous dorsal crest along the back, long oar-like pelvic fins, a tiny tail fin |
 | SSS80 | 逆熵鳐 | 稀有 | ray | a huge massive creature, a broad diamond-shaped disc with angular facet edges, a short blunt snout, a long thin tail with a single spine, broad wing-like pectoral fins with crisp corners, a small dorsal fin near the tail base |
-| SSS81 | 空时甲胄鱼 | 稀有 | placoderm | a huge massive creature, a long tapered snout on a streamlined head, narrow angular jaws lined with even needle teeth, a low even keel along the flank, matte crystalline hide with crisp facet cuts, a tall triangular dorsal fin, a matched pair of swept pectoral fins, a crescent tail fin with a long upper lobe |
+| SSS81 | 空时海豚 | 稀有 | dolphin | a huge massive creature, a long tapered snout on a streamlined head, narrow angular jaws lined with even needle teeth, a low even keel along the flank, matte crystalline hide with crisp facet cuts, a tall triangular dorsal fin, a matched pair of swept pectoral fins, a crescent tail fin with a long upper lobe |
 | SSS82 | 千年魟 | 稀有 | ray | a huge massive creature, a wide diamond disc with evenly stepped edges, a pair of short cephalic lobes at the snout, layered ridge rings across the back, a long thin whip-like tail, broad wing-like pectoral fins fused to the disc, a small dorsal fin near the tail base |
 | SSS83 | 时纱水母 | 稀有 | jelly | a huge massive creature, a domed translucent bell with a thin layered rim, four evenly spaced tentacle clusters around the margin, a central trailing veil of long ribbon tentacles |
 | SSS84 | 虚年章鱼 | 稀有 | squid | a huge massive creature, a long slender mantle tapering to a faceted rear tip, triangular side fins running along the mantle, eight arms of even length set in a ring, two long trailing feeding tentacles, triangular side fins with straight bevelled edges along the mantle |

diff --git a/docs/图鉴文案.md b/docs/图鉴文案.md
@@ -2248,7 +2248,7 @@
 - **原色**：从无光之渊捞上来的，十有八九有它。体型惊人，遇到动静先退半步，再决定要不要跑。它在水下的社交活动约等于零。
 - **闪光**：全身的光不是打上去的，是从里面透出来的。尤其是那排硬棘，在光里格外清楚。别的鱼看两眼就晕了——不是被美到，是被闪到。
 
-## SSS69 空页甲胄鱼（普通 · placoderm）
+## SSS69 空页狮子鱼（普通 · snailfish）
 - **原色**：无光之渊的常住居民。体型惊人，能在这片水里待住就算本事。它的一生基本可以用四个字总结：随波逐流。
 - **闪光**：凑近看，每一片鳞上都有一颗独立的亮点。光从那排硬棘的位置开始往外铺。它的光会随着心跳节奏轻微明灭，像某种没说出口的信号。
 
@@ -2256,11 +2256,11 @@
 - **原色**：在无光之渊混了很多年。体型惊人，一天里大部分时间在发呆。它在水下的社交活动约等于零。
 - **闪光**：光从鳞片缝隙里透出来，密得几乎连成一块。光点铺在这么大的身体上，密度反而显得稀疏了。它的光在水里能传很远，远到足够让别的生物提前改道。
 
-## SSS71 前尘奇虾（普通 · anomalocaris）
+## SSS71 前尘海豹（普通 · seal）
 - **原色**：无光之渊的日常物种之一。体型惊人，觅食范围不大，够吃就行。它从不抱怨水位，虽然水位一直在变。
 - **闪光**：它的反光会随着角度整片翻过去，像翻书一样。光点铺在这么大的身体上，密度反而显得稀疏了。夜潜的人看到它，第一反应是「那是什么」，第二反应是「那是活的」。
 
-## SSS72 后时奇虾（普通 · anomalocaris）
+## SSS72 后时飞鱼（普通 · flyingfish）
 - **原色**：无光之渊的老住户。体型惊人，游得不快，但很少走错路。它一生中最激烈的动作是躲开一次渔网。
 - **闪光**：浑身撒着星屑，从水里升上来时，像有人在水底展开了一张餐巾。在光里，满身的斑点的阴影都变清楚了。在黑暗里它是主角，白天几乎没人注意到它。
 
@@ -2296,7 +2296,7 @@
 - **原色**：在无光之渊混了很多年。体型惊人，一天里大部分时间在发呆。它把日子过成了一条直线，中间没什么起伏。
 - **闪光**：它不发光的时候没人注意，一发光就没人能移开视线。自带的那盏灯在闪光状态下反而成了最不显眼的部分。捕食者靠近之前会被晃一下，这一下通常够它跑掉。
 
-## SSS81 空时甲胄鱼（稀有 · placoderm）
+## SSS81 空时海豚（稀有 · dolphin）
 - **原色**：在无光之渊的石头缝里长大。体型惊人，属于不会主动惹事的那一类。它靠着一套非常省电的活法，活到了现在。
 - **闪光**：凑近看，每一片鳞上都有一颗独立的亮点。有人说这层光是为了衬托自带的那盏灯才长出来的。在无光之渊，这么亮是要付出代价的。
 

diff --git a/docs/体型细分名册.md b/docs/体型细分名册.md
@@ -49,8 +49,6 @@
 | `fish` | fish | 5 | 1.4% |
 | `puffer` | puffer | 5 | 1.4% |
 | `whale` | whale | 5 | 1.4% |
-| `anomalocaris` | 奇虾 | 4 | 1.1% |
-| `placoderm` | 甲胄鱼形 | 4 | 1.1% |
 | `turtle` | turtle | 3 | 0.8% |
 | `catfish` | catfish | 3 | 0.8% |
 | `siphonophore` | siphonophore | 3 | 0.8% |
@@ -58,24 +56,26 @@
 | `crinoid` | crinoid | 3 | 0.8% |
 | `sturgeon` | sturgeon | 3 | 0.8% |
 | `oarfish` | oarfish | 2 | 0.6% |
+| `anomalocaris` | 奇虾 | 2 | 0.6% |
 | `eurypterid` | 板足鲎 | 2 | 0.6% |
 | `trilobite` | 三叶虫 | 2 | 0.6% |
+| `snailfish` | 马里亚纳狮子鱼 | 2 | 0.6% |
 | `ammonite` | 菊石 | 2 | 0.6% |
+| `placoderm` | 甲胄鱼形 | 2 | 0.6% |
 | `orthocone` | 直角石 | 2 | 0.6% |
+| `seal` | 海豹 | 2 | 0.6% |
+| `flyingfish` | 飞鱼 | 2 | 0.6% |
 | `mosasaur` | 沧龙 | 2 | 0.6% |
+| `dolphin` | 海豚 | 2 | 0.6% |
 | `plesiosaur` | 蛇颈龙 | 2 | 0.6% |
 | `seahorse` | seahorse | 1 | 0.3% |
 | `hallucigenia` | 怪诞虫 | 1 | 0.3% |
 | `sawfish` | 锯鳐 | 1 | 0.3% |
 | `lionfish` | 蓑鲉 | 1 | 0.3% |
 | `seasnake` | 海蛇 | 1 | 0.3% |
-| `snailfish` | 马里亚纳狮子鱼 | 1 | 0.3% |
 | `helicoprion` | 旋齿鲨 | 1 | 0.3% |
 | `opabinia` | 欧巴宾海蝎 | 1 | 0.3% |
-| `seal` | 海豹 | 1 | 0.3% |
-| `flyingfish` | 飞鱼 | 1 | 0.3% |
 | `graptolite` | 笔石 | 1 | 0.3% |
-| `dolphin` | 海豚 | 1 | 0.3% |
 | | **合计** | **362** | 100% |
 
 ### 2026-10-13 新增的 19 个「古代生物 / 现生海洋生物」体型（成员现算）
@@ -92,13 +92,13 @@ SSS42 残时三叶虫、SSS91 纪元三叶虫
 
 SSS25 昨日海蝎、SSS46 溯光海蝎
 
-#### `anomalocaris` 奇虾（4 条）
+#### `anomalocaris` 奇虾（2 条）
 
-SSS14 残响奇虾、SSS71 前尘奇虾、SSS72 后时奇虾、SSS75 流年奇虾
+SSS14 残响奇虾、SSS75 流年奇虾
 
-#### `placoderm` 甲胄鱼形（4 条）
+#### `placoderm` 甲胄鱼形（2 条）
 
-SSS59 纪元褶皱·深渊甲胄鱼、SSS69 空页甲胄鱼、SSS81 空时甲胄鱼、SSS89 逆流甲胄鱼
+SSS59 纪元褶皱·深渊甲胄鱼、SSS89 逆流甲胄鱼
 
 #### `mosasaur` 沧龙（2 条）
 
@@ -128,21 +128,21 @@ SSS18 沙漏怪诞虫
 
 SSS85 逆旅笔石
 
-#### `dolphin` 海豚（1 条）
+#### `dolphin` 海豚（2 条）
 
-SSS88 千年海豚
+SSS81 空时海豚、SSS88 千年海豚
 
-#### `seal` 海豹（1 条）
+#### `seal` 海豹（2 条）
 
-SSS77 寂时海豹
+SSS71 前尘海豹、SSS77 寂时海豹
 
-#### `snailfish` 马里亚纳狮子鱼（1 条）
+#### `snailfish` 马里亚纳狮子鱼（2 条）
 
-SSS50 沉默狮子鱼
+SSS50 沉默狮子鱼、SSS69 空页狮子鱼
 
-#### `flyingfish` 飞鱼（1 条）
+#### `flyingfish` 飞鱼（2 条）
 
-SSS79 溯流飞鱼
+SSS72 后时飞鱼、SSS79 溯流飞鱼
 
 #### `lionfish` 蓑鲉（1 条）
 

diff --git a/docs/图鉴文案-手写.md b/docs/图鉴文案-手写.md
@@ -856,7 +856,7 @@
 - **原色**：鲷科身形，体侧同时有纵纹和背棘。它的花纹排列得不完整，像被人撕掉了一角。
 - **闪光**：纹路亮到中间就断了。那一段空白，比亮着的部分更显眼。
 
-## 168 · SSS69 空页甲胄鱼（时之尽头 · 13 万吨 · 311 金）
+## 168 · SSS69 空页狮子鱼（时之尽头 · 13 万吨 · 311 金）
 
 - **原色**：腕很粗、茎也粗，但表面几乎是空的——没有任何花纹。它和同类里那些满身图案的正好相反。
 - **闪光**：光在它身上均匀铺开。没有图案，只是纯粹的一块亮。
@@ -866,12 +866,12 @@
 - **原色**：壳薄、旋纹浅，颜色银亮。它的特点是：见过它的人之后会想不起来它长什么样，但记得自己见过。
 - **闪光**：光很亮，但眼睛一移开就忘了那是什么形状。
 
-## 170 · SSS71 前尘奇虾（时之尽头 · 3000 吨 · 227 金）
+## 170 · SSS71 前尘海豹（时之尽头 · 3000 吨 · 227 金）
 
 - **原色**：一条很短的小管水母，个体数比同类少得多。它出现的时候总像是"上一次"的延续。
 - **闪光**：那点光很旧。像是从某个更早的时候一路亮过来的。
 
-## 171 · SSS72 后时奇虾（时之尽头 · 9000 吨 · 259 金）
+## 171 · SSS72 后时飞鱼（时之尽头 · 9000 吨 · 259 金）
 
 - **原色**：一小串个体，靠近底部活动，体节上带斑。它和"前尘"是同一个命名体系的两端。
 - **闪光**：亮点亮起来的位置，比它实际所在的位置偏了一点。
@@ -1379,7 +1379,7 @@
 - **原色**：宽大菱形身体，通体带光。名字里的"逆熵"说的是它身上的光从散乱慢慢变得有秩序。
 - **闪光**：那些光点原本是散的，亮了一会儿之后，排成了一条线。它没有解释这是怎么做到的。
 
-## 272 · SSS81 空时甲胄鱼（时之尽头 · 4.5 亿吨 · 1688 金）
+## 272 · SSS81 空时海豚（时之尽头 · 4.5 亿吨 · 1688 金）
 
 - **原色**：茎粗、腕多，整株张开的面积大得离谱。它是这一档里最重的一株普通/稀有生物。
 - **闪光**：它亮起来的面积，超过了这片水域里任何其他生物。黑暗被推开了一整片。

diff --git a/docs/生图清单.md b/docs/生图清单.md
@@ -60,8 +60,8 @@
 | [x] | 031 | 普通 | 5 | SSS21 年轮鲷、SSS22 未时海葵、SSS23 星轨海蛇尾、SSS24 虚空水母、SSS25 昨日海蝎 |
 | [x] | 032 | 普通 | 5 | SSS26 远景鲳、SSS27 回响鲻、SSS28 初光锯鳐、SSS29 遗迹鳐、SSS30 尘光水母 |
 | [x] | 033 | 普通 | 5 | SSS31 遗光星鳐、SSS32 空时鳕、SSS64 时痕鲽、SSS65 逆光鳕、SSS66 纪年直角石 |
-| [x] | 034 | 普通 | 5 | SSS67 溯时鲻、SSS68 残页鲷、SSS69 空页甲胄鱼、SSS70 遗忘直角石、SSS71 前尘奇虾 |
-| [x] | 035 | 普通 | 5 | SSS72 后时奇虾、SSS73 拾光欧巴宾虾、SSS74 逆旅鲽、SSS75 流年奇虾、SSS76 空洞沧龙 |
+| [x] | 034 | 普通 | 5 | SSS67 溯时鲻、SSS68 残页鲷、SSS69 空页狮子鱼、SSS70 遗忘直角石、SSS71 前尘海豹 |
+| [x] | 035 | 普通 | 5 | SSS72 后时飞鱼、SSS73 拾光欧巴宾虾、SSS74 逆旅鲽、SSS75 流年奇虾、SSS76 空洞沧龙 |
 | [x] | 036 | 普通 | 1 | SSS77 寂时海豹 |
 | [x] | 037 | 稀有 | 5 | A21 真鲷、A22 海鲈、A23 鲯鳅、A24 章鱼、A25 马鲛 |
 | [x] | 038 | 稀有 | 5 | A26 蓝点马鲛、A27 大黄鱼、A28 鮸鱼、A29 牙鲆、A30 许氏平鲉 |
@@ -82,7 +82,7 @@
 | [x] | 053 | 稀有 | 5 | SSS41 逆流龙鱼、SSS42 残时三叶虫、SSS43 虚时鮟鱇、SSS44 千面蛸、SSS45 逆空鲛 |
 | [x] | 054 | 稀有 | 5 | SSS46 溯光海蝎、SSS47 旧日水母、SSS48 影时蓑鲉、SSS49 回环海蛇、SSS50 沉默狮子鱼 |
 | [x] | 055 | 稀有 | 5 | SSS51 星轨魟、SSS52 时刻鲳、SSS78 时间鲟、SSS79 溯流飞鱼、SSS80 逆熵鳐 |
-| [x] | 056 | 稀有 | 5 | SSS81 空时甲胄鱼、SSS82 千年魟、SSS83 时纱水母、SSS84 虚年章鱼、SSS85 逆旅笔石 |
+| [x] | 056 | 稀有 | 5 | SSS81 空时海豚、SSS82 千年魟、SSS83 时纱水母、SSS84 虚年章鱼、SSS85 逆旅笔石 |
 | [x] | 057 | 史诗 | 2 | A34 金枪鱼、A35 旗鱼 |
 | [x] | 058 | 史诗 | 2 | A36 剑鱼、A37 龙趸石斑 |
 | [x] | 059 | 史诗 | 2 | A38 宝石石斑、A39 河鲀 |
